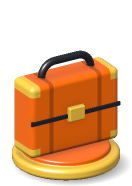
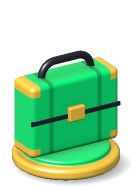
Grön spelare i stället för orange
Claude-Session: https://claude.ai/code/session_012UEboomqaECNEgSke9QzSg

diff --git a/public/index.html b/public/index.html
@@ -191,7 +191,7 @@ body.rolling .side{pointer-events:none}
 <script>
 const { GAME_NAME, GROUPS, SQUARES, RULES, plotInfo } = window.GAME_DATA;
 document.title = GAME_NAME + ' online';
-const COLORS = ['#ff1744', '#2979ff', '#ffea00', '#ffffff', '#d500f9', '#ff6d00'];
+const COLORS = ['#ff1744', '#2979ff', '#ffea00', '#ffffff', '#d500f9', '#00e676'];
 const kr = (v) => Number(v).toLocaleString('sv-SE') + ' kr';
 const app = document.getElementById('app');
 const store = { get(k) { try { return localStorage.getItem(k); } catch { return null; } }, set(k, v) { try { localStorage.setItem(k, v); } catch {} }, del(k) { try { localStorage.removeItem(k); } catch {} } };

diff --git a/tools/pawns.js b/tools/pawns.js
@@ -2,7 +2,7 @@
 const { chromium } = require('playwright');
 const path = require('path'); const fs = require('fs');
 const OUT = path.join(__dirname, '..', 'public', 'pawns');
-const COLORS = ['#ff1744', '#2979ff', '#ffea00', '#ffffff', '#d500f9', '#ff6d00'];
+const COLORS = ['#ff1744', '#2979ff', '#ffea00', '#ffffff', '#d500f9', '#00e676'];
 const render = ([shape, hex]) => {
 const smin=(a,b,k)=>{const h=Math.max(k-Math.abs(a-b),0)/k;return Math.min(a,b)-h*h*k*.25};
 const disc=(r,y,rad,y0,y1,c=.04)=>{const dx=r-rad+c,dy=Math.abs(y-(y0+y1)/2)-(y1-y0)/2+c;return Math.min(Math.max(dx,dy),0)+Math.hypot(Math.max(dx,0),Math.max(dy,0))-c};
